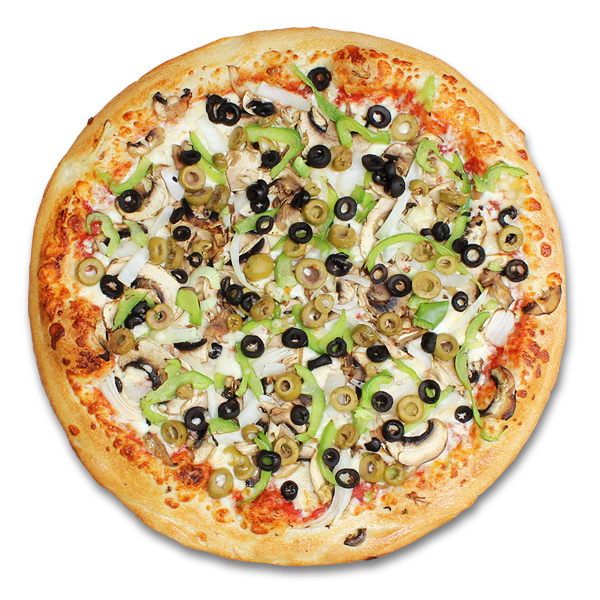
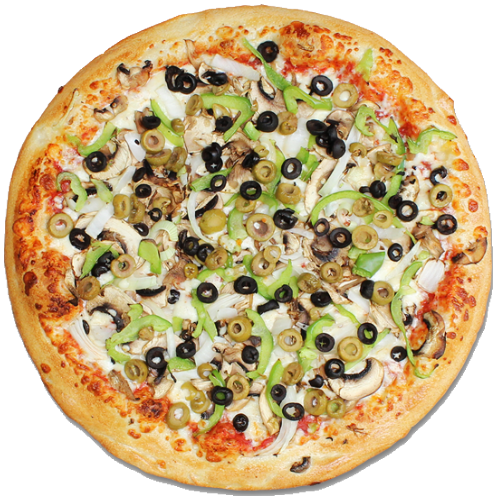
Add files via upload
CSS has been altered (still in progress), pizza image files have been resized, suggestion page redone for responsiveness, made minor edits to menu page

diff --git a/css/style.css b/css/style.css
@@ -11,6 +11,7 @@
  .jumbotron {
     text-align: center;
     background: white;
+    margin-top: 10%;
 }
 
 .container {
@@ -20,6 +21,14 @@
 #loginbox {
       margin-top: 2%;
       margin-bottom: 2%;
+}
+
+#formPage p {
+    text-align: center;
+}
+
+#formPage {
+    margin-top: 10%;
 }
 
 article,
@@ -523,7 +532,7 @@ table {
 html {overflow-y: scroll; overflow-x: hidden;}
 body {font-family: 'Open Sans', sans-serif; background:#f0eeed; color: #676767;}
 
-.wrapper {width: 980px; margin: 0 auto;}
+
 #content {padding: 20px 0 80px;}
 .header:after {content:"";height:0;display:block;visibility:hidden;clear:both;}
 .header {background: #ef8887; border-bottom: 3px solid #db7a78;}
@@ -711,3 +720,15 @@ form input[type="submit"] {
 .footer a {text-decoration: none; color: #539def; margin: 0 10px;}
 .footer li:first-child a {margin-left: 4px;}
 .footer a:hover, .footer a:active {text-decoration: underline;}
+
+/* adding media query to change menu to list if display screen is small */
+
+@media only screen and (max-width: 700px) {
+    .media-picture {
+        clear: left;
+    }
+
+    .media-picture span {
+        display: none;
+    }
+}

diff --git a/suggest.php b/suggest.php
@@ -49,20 +49,21 @@ $section = "suggest";
 
 include("inc/header.php"); 
 ?>
-
-<div class="section page">
-    <div class="wrapper">
-        <h1>Suggest a Pizza</h1>
+<div class="container" id="formPage">
+<!--<div class="section page">
+    <div class="wrapper">-->
+        <h1 style="text-align: center;">Suggest a Pizza</h1>
         <?php if (isset($_GET["status"]) && $_GET["status"] == "thanks") {
             echo "<p>Thanks for the email! We&rsquo;ll check out your suggestion shortly!</p>";
         } else {
             if (isset($error_message)) {
                 echo "<p class='message'>".$error_message . "</p>";
             } else {
-                echo "<p>If you think there is something We&rsquo;re missing, let us know! Complete the form to send us an email.</p>";
+                echo "<p>If you think there is something we&rsquo;re missing, <br>let us know!<br> Complete the form to send us an email.</p>";
             }
         ?>
         <form method="post" action="suggest.php">
+            <!-- original form table code//////////////// 
             <table>
             <tr>
                 <th><label for="name">Name (required)</label></th>
@@ -83,9 +84,28 @@ include("inc/header.php");
             </tr>
             </table>
             <input type="submit" value="Send" />
-        </form>
+            -->
+
+            <!-- Boostrap Form -->
+            <div class="form-group">
+                <label for="name">Name (require)</label>
+                <input type="text" id="name" name="name" class="form-control" value="<?php if (isset($name)) { echo $name; } ?>">
+            </div>
+            <div class="form-group">
+                <label for="email">Email (required)</label>
+                <input type="text" id="email" name="email" class="form-control" value="<?php if (isset($email)) { echo $email; } ?>">
+            </div>
+            <div class="form-group">
+                <label for="details">Suggest Item Details</label>
+                <textarea class="form-control" id="details" name="details" rows="3"></textarea>
+            </div>
+            <button type="submit" class="btn btn-default">Submit</button>
+
+
+            </form>
         <?php } ?>
     </div>
 </div>
+        </div>
 
 <?php include("inc/footer.php"); ?>

diff --git a/catalog.php b/catalog.php
@@ -1,6 +1,6 @@
 <?php 
 include("inc/functions.php");
-$pageTitle = "Pizza's";
+$pageTitle = "Pizza Menu";
 $section = null;
 $search = null;
 $items_per_page = 8;
@@ -41,11 +41,14 @@ if (!empty($search)) {
 }
 include("inc/header.php"); ?>
 
+<div class="container">
+
+
 <div class="section catalog page">
     
     <div class="wrapper">
         
-        <h1><?php 
+    <h1><?php 
         if ($search != null) {
           echo "Search Results for \"".htmlspecialchars($search)."\"";
         } else {
@@ -55,6 +58,7 @@ include("inc/header.php"); ?>
           echo $pageTitle;
         }
         ?></h1>
+        
         <?php
         if ($total_items < 1) {
           echo "<p>No items were found matching that search term.</p>";
@@ -74,5 +78,6 @@ include("inc/header.php"); ?>
         
     </div>
 </div>
+      </div>
 
 <?php include("inc/footer.php"); ?>

diff --git a/details.php b/details.php
@@ -12,6 +12,7 @@ $pageTitle = $item["title"];
 $section = null;
 include("inc/header.php"); ?>
 
+<div class="container">
 <div class="section page">
 
     <div class="wrapper">
@@ -19,10 +20,15 @@ include("inc/header.php"); ?>
         <div class="media-picture">
     
         <span>
-            <img src="<?php echo $item["img"]; ?>" alt="<?php echo $item["title"]; ?>" />
-        </span>
-            
-        </div>
+            <ul style="list-style: none;">
+            <li>
+            <img class="img-responsive" src="<?php echo $item["img"]; ?>" alt="<?php echo $item["title"]; ?>" />
+            </li>
+            </ul>
+</span>
+        
+</div>
+        
         
         <div class="media-details">
         
@@ -55,5 +61,7 @@ include("inc/header.php"); ?>
         </div>
     
     </div>
+
+</div>
 
 </div>

diff --git a/inc/header.php b/inc/header.php
@@ -10,7 +10,7 @@
     <script src="https://maxcdn.bootstrapcdn.com/bootstrap/3.3.7/js/bootstrap.min.js"></script>
 </head>
 <body>
-<nav class="navbar navbar-default">
+<nav class="navbar navbar-fixed-top navbar-default">
             <div class="container">
               <div class="navbar-header">
                 <button type="button" class="navbar-toggle" data-toggle="collapse" data-target="#myNavbar">
